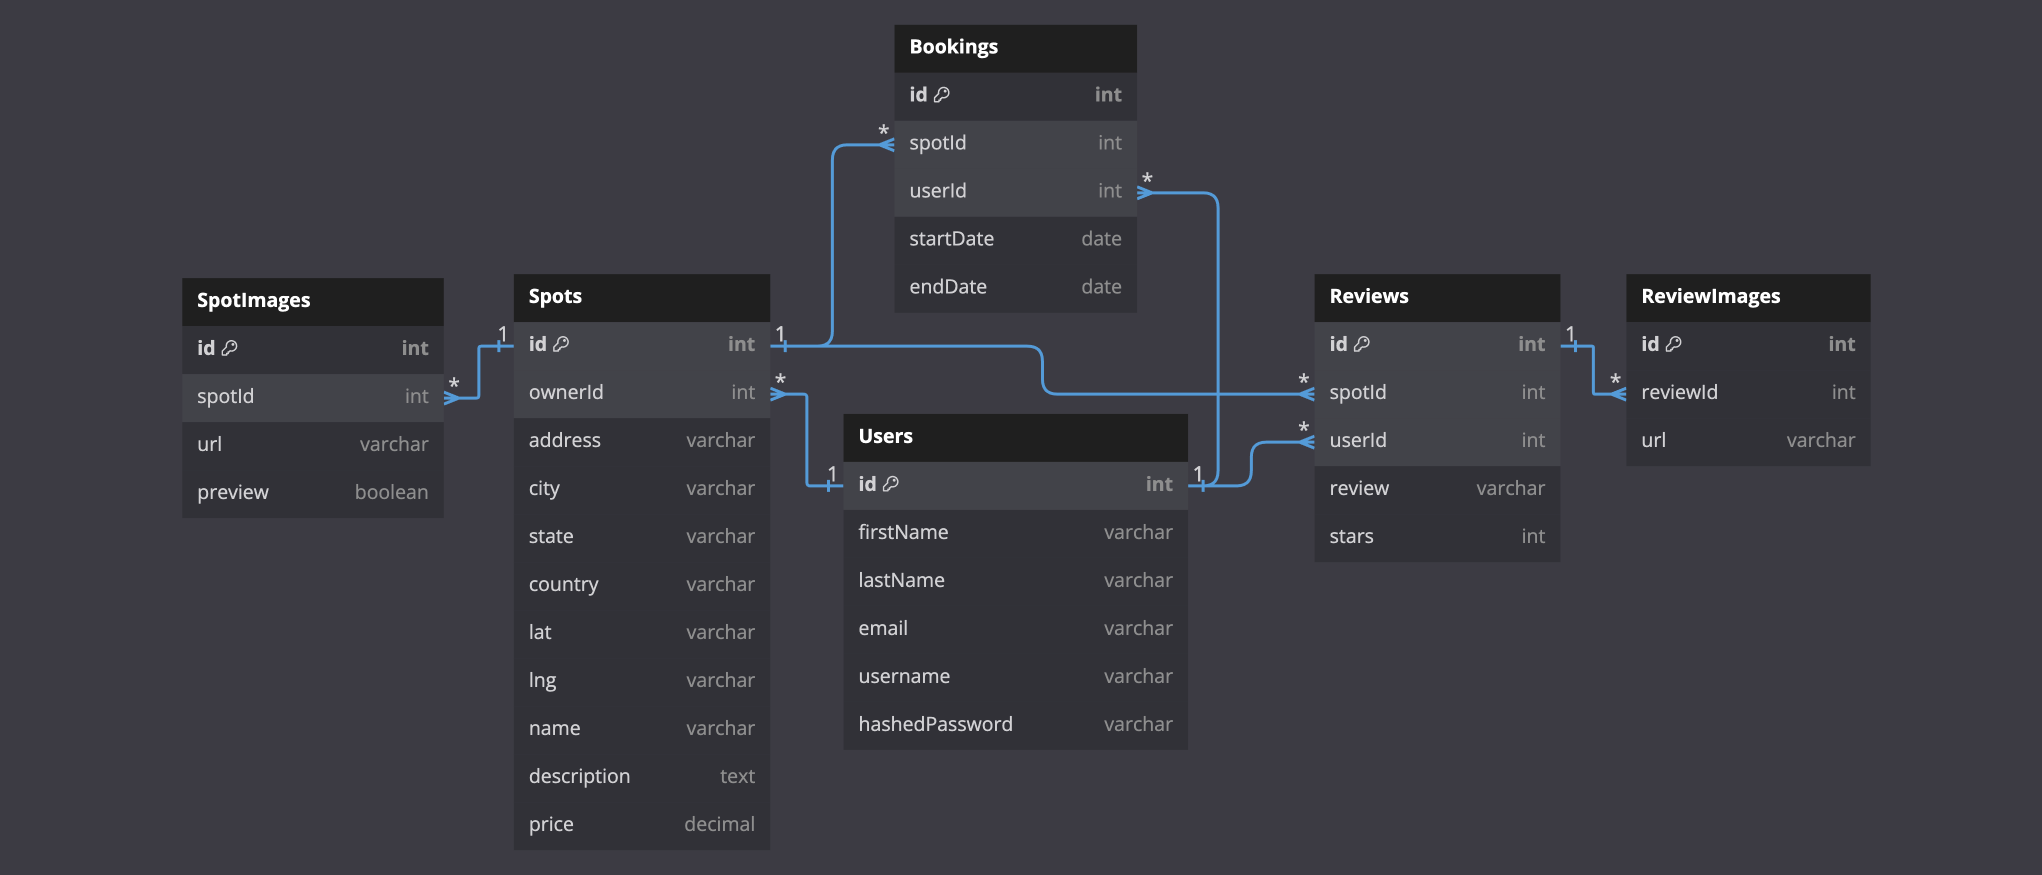
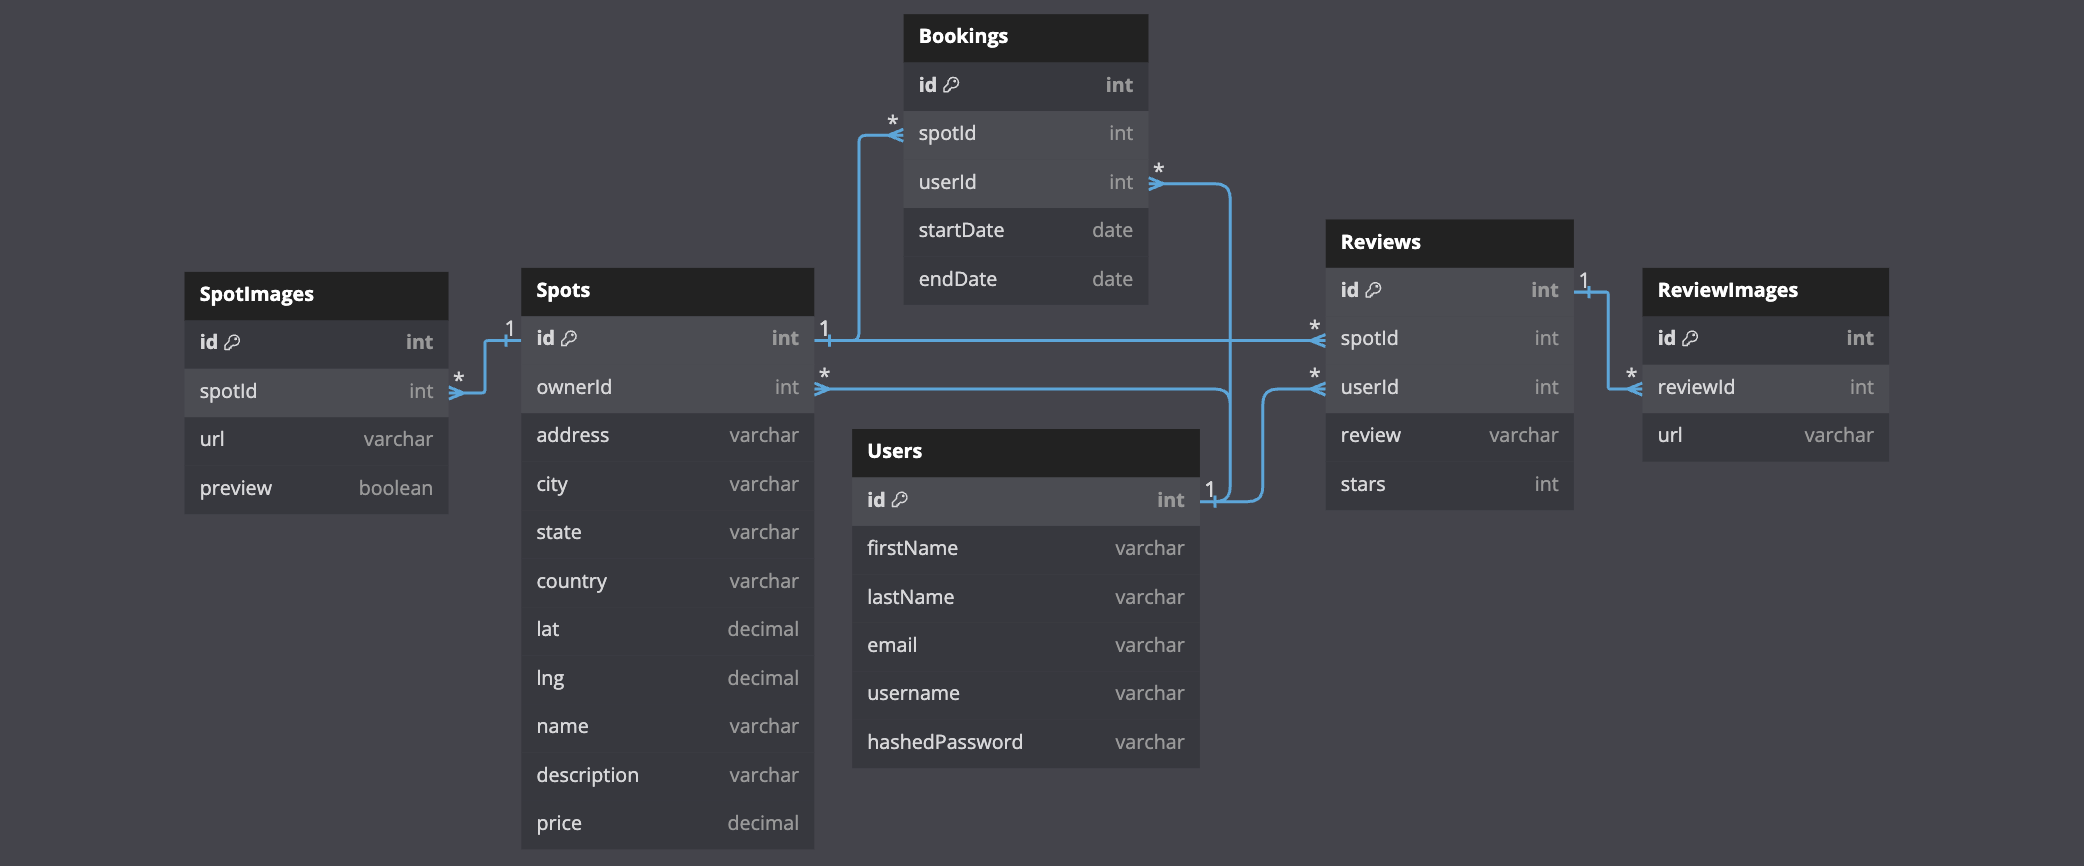
corrected README.md and added revised schema design png

diff --git a/README.md b/README.md
@@ -19,8 +19,8 @@ Table Spots {
   city varchar
   state varchar
   country varchar
-  lat varchar
-  lng varchar
+  lat decimal
+  lng decimal
   name varchar
   description text
   price decimal
